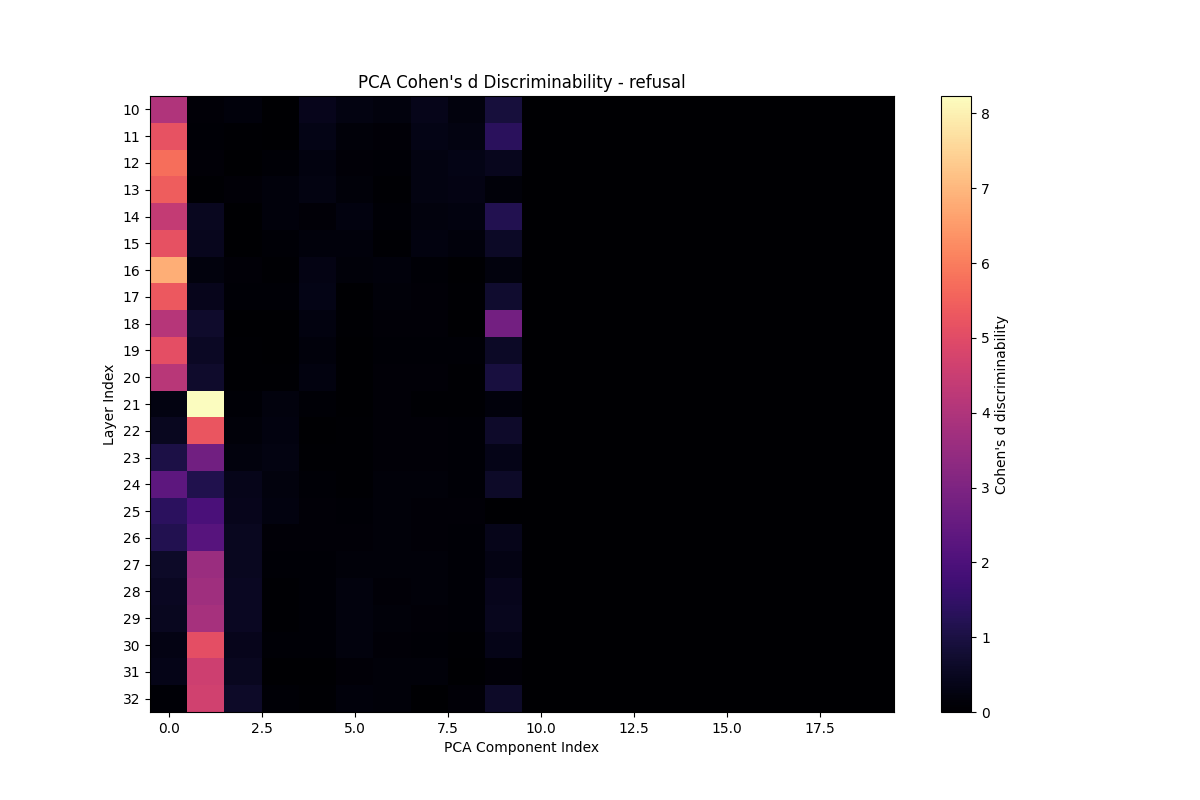
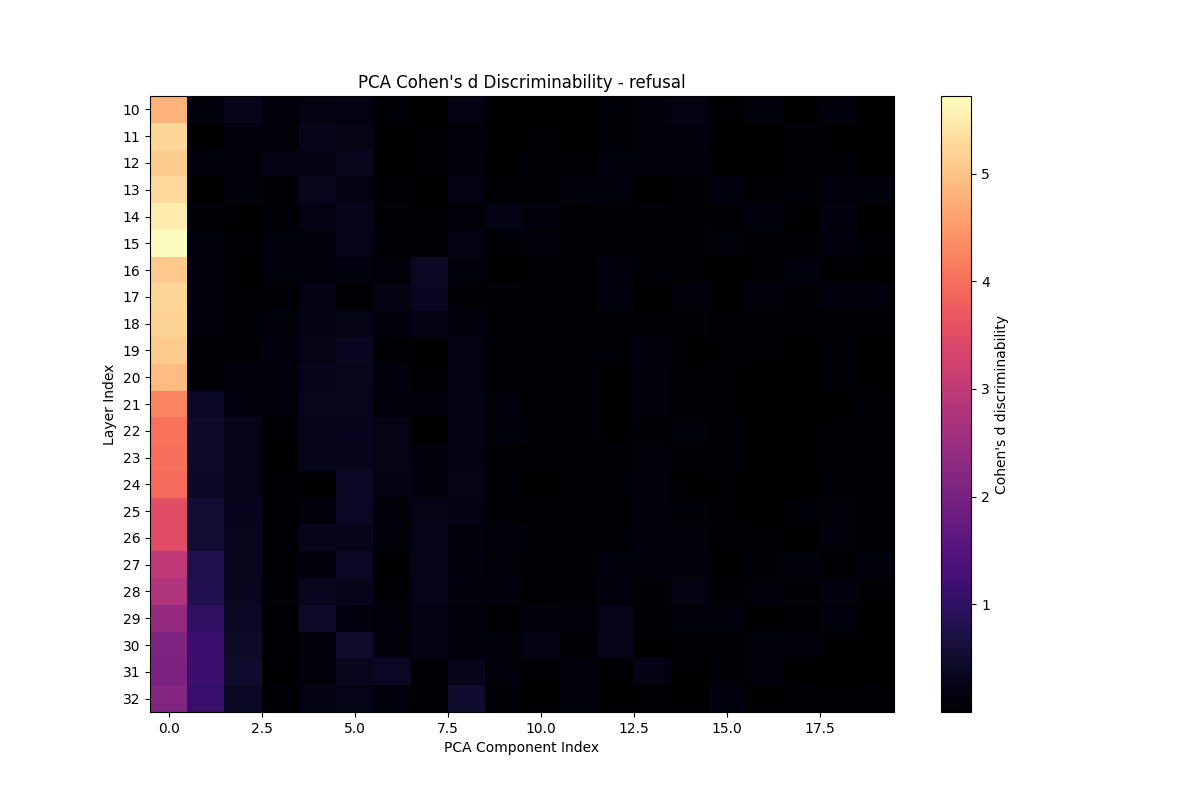
got refusal working

diff --git a/linear_probe/control/refusal_control/save_refusal_activations.py b/linear_probe/control/refusal_control/save_refusal_activations.py
@@ -4,6 +4,7 @@ import random
 import argparse
 import sys
 from pathlib import Path
+from datetime import datetime
 from tqdm import tqdm
 from transformers import AutoModelForCausalLM, AutoTokenizer
 
@@ -11,7 +12,7 @@ from transformers import AutoModelForCausalLM, AutoTokenizer
 PROJECT_ROOT = Path(__file__).resolve().parent.parent.parent.parent
 sys.path.append(str(PROJECT_ROOT))
 
-# Import the utility function
+# Import the utility functions
 from linear_probe.control.refusal_control.extract_activations import extract_activations_at_position
 from linear_probe.control.PCA import extract_PCA_from_activations, extract_PCA_from_activations_cohens_d
 
@@ -24,6 +25,8 @@ def main():
     parser.add_argument("--min_layer", type=int, default=10, 
                         help="Minimum layer index to start extracting from (default: 10).")
     args = parser.parse_args()
+
+    # TODO: add in logging from model_utilities.logging
 
     # ── Load Model & Tokenizer ─────────────────────────────────────────────
     print(f"⏳ Loading model: {args.model}")
@@ -51,7 +54,6 @@ def main():
     print(f"📦 Sampled {len(harmful_samples)} harmful and {len(harmless_samples)} harmless prompts.")
 
     # ── Extraction Loop ───────────────────────────────────────────────────
-    # Store all activations: dict mapping layer -> List[tensor of [1, d_model]]
     pos_activations = {}
     neg_activations = {}
     
@@ -59,90 +61,87 @@ def main():
         for item in tqdm(prompts, desc=desc):
             instruction = item['instruction']
             
-            # extract_activations_at_position handles chat template and tokenization
+            # Position -5 targets the <|eot_id|> in Llama-3 instruction format
             current_activations = extract_activations_at_position(
                 model, 
                 tokenizer, 
                 instruction, 
                 min_layer_to_save=args.min_layer,
-                position=-5 # User EOT in Llama-3-Instruct
+                position=-5 
             )
             
             for layer, act in current_activations.items():
                 if layer not in storage:
                     storage[layer] = []
-                storage[layer].append(act) # Store the [1, d_model] tensor
+                storage[layer].append(act) # [1, d_model] tensor
 
     process_prompts(harmful_samples, pos_activations, "🔴 Extracting Harmful")
     process_prompts(harmless_samples, neg_activations, "🟢 Extracting Harmless")
 
-    # ── Averaging ──────────────────────────────────────────────────────────
-    print("\n📊 Computing prompt-wise mean...")
+    # ── Processing & Averaging ────────────────────────────────────────────
+    print("\n📊 Computing activation statistics...")
     
-    # Final output dictionaries: dict{layer : [num_prompts, d_model] tensor}
     positive_full = {}
     negative_full = {}
-    
     positive_avg = {}
     negative_avg = {}
 
     layers = sorted(pos_activations.keys())
     for layer in layers:
-        # Stack all prompts for this layer: [num_prompts, d_model]
-        pos_stack = torch.cat(pos_activations[layer], dim=0) 
+        pos_stack = torch.cat(pos_activations[layer], dim=0) # [N, d_model]
         neg_stack = torch.cat(neg_activations[layer], dim=0)
         
         positive_full[layer] = pos_stack
         negative_full[layer] = neg_stack
         
-        # Still compute averages for mass-mean vector
         positive_avg[layer] = pos_stack.mean(dim=0)
         negative_avg[layer] = neg_stack.mean(dim=0)
 
-    print(f"✅ Activation dictionaries created for {len(layers)} layers.")
+    print(f"✅ Data prepared for {len(layers)} layers.")
 
-    from datetime import datetime
+    # ── Persistence ────────────────────────────────────────────────────────
     timestamp = datetime.now().strftime("%m_%d_%H_%M")
     
-    # 1. Save full positive and negative activations [num_prompts, d_model]
-    saved_act_dir = Path(f"saved_activations/run_{timestamp}")
-    saved_act_dir.mkdir(parents=True, exist_ok=True)
-    torch.save(positive_full, saved_act_dir / "positive_activations_refusal.pt")
-    torch.save(negative_full, saved_act_dir / "negative_activations_refusal.pt")
-    print(f"💾 Saved full activations [layer, prompt, d_model] to: {saved_act_dir}")
-    print("shape: ", positive_full.keys())
-    # print("shape inside layer: ", positive_full[10].shape)
+    # Save to project root directories for consistency
+    PROBE_RUN_DIR = PROJECT_ROOT / "probe_vectors" / "refusal" / f"run_{timestamp}"
+    ACT_RUN_DIR = PROJECT_ROOT / "saved_activations" / "refusal" / f"run_{timestamp}"
     
-    # 2. Compute mass mean vector
-    mass_mean_vector = dict()
-    for layer in layers:
-        mass_mean_vector[layer] = positive_avg[layer] - negative_avg[layer]
+    PROBE_RUN_DIR.mkdir(parents=True, exist_ok=True)
+    ACT_RUN_DIR.mkdir(parents=True, exist_ok=True)
 
-    # 3. Save mass mean vector
-    probe_dir = Path(f"probe_vectors/refusal/run_{timestamp}")
-    probe_dir.mkdir(parents=True, exist_ok=True)
-    torch.save(mass_mean_vector, probe_dir / "mass_mean_vector_refusal.pt")
-    print(f"💎 Saved mass-mean vector to: {probe_dir}")
+    # 1. Save full activations
+    torch.save(positive_full, ACT_RUN_DIR / "positive_activations_refusal.pt")
+    torch.save(negative_full, ACT_RUN_DIR / "negative_activations_refusal.pt")
+    print(f"💾 Saved full activations to: {ACT_RUN_DIR}")
+    
+    # 2. Compute and save Mass-Mean Vector
+    mass_mean_vector = {l: (positive_avg[l] - negative_avg[l]) for l in layers}
+    torch.save(mass_mean_vector, PROBE_RUN_DIR / "mass_mean_vector_refusal.pt")
+    print(f"💎 Saved mass-mean vector to: {PROBE_RUN_DIR}")
 
     # ── Discriminative PCA (Cohen's d) ──────────────────────────────────────
     print("💎 Running Cohen's d PCA Analysis...")
+    # save_dir for heatmaps
+    PCA_PLOT_DIR = PROJECT_ROOT / "plots" / "control" / "refusal_control"
+    
     PCA_results = extract_PCA_from_activations_cohens_d(
         positive_full, 
         negative_full, 
         num_components=20, 
         concept_name="refusal",
-        save_dir="../../../plots/control/refusal_control"
+        save_dir=str(PCA_PLOT_DIR)
     )
 
-    # 2. Save Top PCA Components (Top 5 per layer)
+    # 3. Save Top PCA Components (Top 5 per layer)
+    saved_pca_count = 0
     for layer, results in PCA_results.items():
         for comp_idx, d_score, vector in results['top_probes']:
-            # Save the component vector as a torch tensor
             vector_tensor = torch.from_numpy(vector).to(torch.bfloat16)
             file_name = f"PCA_num_{comp_idx}_layer_{layer}_refusal.pt"
-            torch.save(vector_tensor, probe_dir / file_name)
+            torch.save(vector_tensor, PROBE_RUN_DIR / file_name)
+            saved_pca_count += 1
 
-    print(f"\n📊 PCA Probes (Cohen's d) saved to: {probe_dir}")
+    print(f"📊 Saved {saved_pca_count} PCA probes (Cohen's d) to: {PROBE_RUN_DIR}")
 
 if __name__ == "__main__":
     main()

diff --git a/linear_probe/control/refusal_control/test_probe_dir_to_ground_truth.py b/linear_probe/control/refusal_control/test_probe_dir_to_ground_truth.py
@@ -1,0 +1,168 @@
+import argparse
+import sys
+import re
+from pathlib import Path
+
+import torch
+import matplotlib.pyplot as plt
+import numpy as np
+from transformers import AutoModelForCausalLM, AutoTokenizer
+from sklearn.metrics.pairwise import cosine_similarity
+
+# Project root for imports
+PROJECT_ROOT = Path(__file__).resolve().parent.parent.parent.parent
+sys.path.append(str(PROJECT_ROOT))
+
+def main():
+    parser = argparse.ArgumentParser(
+        description="Compare refusal probes (MMV/PCA) against a ground truth refusal vector."
+    )
+    parser.add_argument("--model", type=str,
+                        default="meta-llama/Meta-Llama-3.1-8B-Instruct")
+    parser.add_argument("--probes_folder_path", type=str, required=True,
+                        help="Path to the folder containing mass_mass_vector and PCA files.")
+    parser.add_argument("--ground_truth_path", type=str, 
+                        default="ground_truth_probe/direction.pt",
+                        help="Path to the ground truth direction.pt file.")
+    parser.add_argument("--save_dir", type=str, default="../../../plots/control/refusal_control",
+                        help="Directory to save the resulting scatter plot.")
+    args = parser.parse_args()
+
+    # 1. Load Model (optional reference)
+    print(f"\n⏳ Loading tokenizer/config for model: {args.model}")
+    tokenizer = AutoTokenizer.from_pretrained(args.model)
+    # Note: We don't necessarily need the full weights just to compare vectors, if we trust the pt files.
+    # but the user's snippet included model loading.
+
+    # ── Discover and Load Probes ──────────────────────────────────────────
+    folder = Path(args.probes_folder_path)
+    print(f"📐 Scanning probes in: {folder}")
+    
+    mmv_probes = {}  # layer -> vector
+    pca_probes = []  # list of (layer, comp_idx, vector)
+    
+    # Load Mass-Mass Vectors (dict of layers)
+    mmv_files = list(folder.glob("mass_mass_vector*.pt"))
+    if mmv_files:
+        print(f"   Found Mass-Mass Vector file: {mmv_files[0].name}")
+        loaded_mmv = torch.load(mmv_files[0], map_location="cpu")
+        if isinstance(loaded_mmv, dict):
+            mmv_probes = loaded_mmv
+        else:
+            print("   ⚠ Warning: mass_mass_vector file is not a dictionary. Skipping.")
+    
+    # Load PCA files
+    # Format: PCA_num_{comp_idx}_layer_{layer}_{concept_name}.pt
+    pca_pattern = re.compile(r"PCA_num_(\d+)_layer_(\d+)_")
+    for f in folder.glob("PCA_num_*.pt"):
+        match = pca_pattern.search(f.name)
+        if match:
+            comp_idx = int(match.group(1))
+            layer = int(match.group(2))
+            vector = torch.load(f, map_location="cpu")
+            pca_probes.append((layer, comp_idx, vector))
+            
+    print(f"   Loaded {len(mmv_probes)} layers from MMV and {len(pca_probes)} individual PCA probes.")
+
+    # ── Load Reference Data ──────────────────────────────────────────────
+    print(f"🎯 Loading Ground Truth: {args.ground_truth_path}")
+    ground_truth = torch.load(args.ground_truth_path, map_location="cpu").detach().float()
+    if ground_truth.dim() > 1:
+        ground_truth = ground_truth.squeeze()
+    ground_truth_np = ground_truth.numpy().reshape(1, -1)
+
+    # ── Comparison & Results Analysis ─────────────────────────────────────
+    all_layers = sorted(set(mmv_probes.keys()) | set(l for l, ci, v in pca_probes))
+    print(f"📊 Comparing across {len(all_layers)} layers detected in probes...")
+
+    results = []  # List of {'type': ..., 'layer': ..., 'cos_sim': ..., 'dist': ..., 'label': ...}
+
+    for layer in all_layers:
+        # A. Mass-Mass Vector comparison
+        if layer in mmv_probes:
+            probe_v = mmv_probes[layer].detach().cpu().float().numpy().reshape(1, -1)
+            cos_sim = float(cosine_similarity(probe_v, ground_truth_np)[0, 0])
+            dist = float(np.linalg.norm(probe_v - ground_truth_np))
+            results.append({
+                'type': 'MMV',
+                'layer': layer,
+                'cos_sim': cos_sim,
+                'dist': dist,
+                'label': f"L{layer}"
+            })
+            
+        # B. PCA components comparison
+        for l, comp_idx, v in pca_probes:
+            if l == layer:
+                probe_v = v.detach().cpu().float().numpy().reshape(1, -1)
+                cos_sim = float(cosine_similarity(probe_v, ground_truth_np)[0, 0])
+                dist = float(np.linalg.norm(probe_v - ground_truth_np))
+                results.append({
+                    'type': f'PCA {comp_idx}',
+                    'layer': layer,
+                    'cos_sim': cos_sim,
+                    'dist': dist,
+                    'label': f"PCA{comp_idx} L{layer}"
+                })
+
+    # ── Plotting ──────────────────────────────────────────────────────────
+    if not results:
+        print("❌ No probes found for comparison. Exiting.")
+        return
+
+    plt.figure(figsize=(12, 8))
+    
+    # Colors for different layers to see evolution
+    cmap = plt.get_cmap('viridis')
+    norm = plt.Normalize(vmin=min(all_layers), vmax=max(all_layers))
+
+    mmv_results = [r for r in results if r['type'] == 'MMV']
+    pca_results = [r for r in results if 'PCA' in r['type']]
+    
+    # Plot Mass-Mass Vectors (Circles)
+    if mmv_results:
+        scatter_mmv = plt.scatter(
+            [r['dist'] for r in mmv_results], 
+            [r['cos_sim'] for r in mmv_results],
+            c=[r['layer'] for r in mmv_results], cmap=cmap, norm=norm,
+            alpha=0.9, s=200, label='Mass-Mean Vector', marker='o', edgecolors='black'
+        )
+    
+    # Plot PCA Components (Diamonds)
+    if pca_results:
+        plt.scatter(
+            [r['dist'] for r in pca_results], 
+            [r['cos_sim'] for r in pca_results],
+            c=[r['layer'] for r in pca_results], cmap=cmap, norm=norm,
+            alpha=0.6, s=120, marker='D', edgecolors='grey'
+        )
+
+    # Label points (only those above threshold of interest)
+    for r in results:
+        # Highlight interesting probes (Top Cosine Sim or low Distance)
+        if r['cos_sim'] > 0.3 or r['dist'] < 10:
+            plt.annotate(r['label'], (r['dist'], r['cos_sim']), 
+                         textcoords="offset points", xytext=(0,12), ha='center', fontsize=9)
+
+    plt.title(f"Probe Alignment with Refusal Ground Truth")
+    plt.xlabel("L2 Distance to Ground Truth")
+    plt.ylabel("Cosine Similarity to Ground Truth")
+    plt.gca().invert_xaxis()  # Low distance on the right (higher quality)
+    plt.grid(True, linestyle='--', alpha=0.5)
+    
+    # Colorbar for layers
+    sm = plt.cm.ScalarMappable(cmap=cmap, norm=norm)
+    plt.colorbar(sm, ax=plt.gca(), label='Layer Index')
+    
+    plt.legend()
+    
+    # Save results
+    save_path = Path(args.save_dir)
+    save_path.mkdir(parents=True, exist_ok=True)
+    plt.savefig(save_path / "refusal_ground_truth_comparison.png")
+    print(f"\n🎨 Comparison plot saved to: {save_path / 'refusal_ground_truth_comparison.png'}")
+    
+    plt.show()
+
+if __name__ == "__main__":
+    main()

diff --git a/linear_probe/control/PCA.py b/linear_probe/control/PCA.py
@@ -113,16 +113,14 @@ def extract_PCA_from_activations_cohens_d(positive_data: dict, negative_data: di
         
         # PCA on concatenated data
         X = np.concatenate([pos_dist, neg_dist], axis=0)
-        n_samples = X.shape[0]
-        actual_num_components = min(num_components, n_samples)
         
-        pca = PCA(n_components=actual_num_components)
+        pca = PCA(n_components=num_components)
         pca.fit(X)
         
         layer_diffs = []
         top_probes_for_layer = []
         
-        for comp_idx in range(actual_num_components):
+        for comp_idx in range(num_components):
             component = pca.components_[comp_idx]
             
             # Project ALL points onto the component to get distributions of projected values
